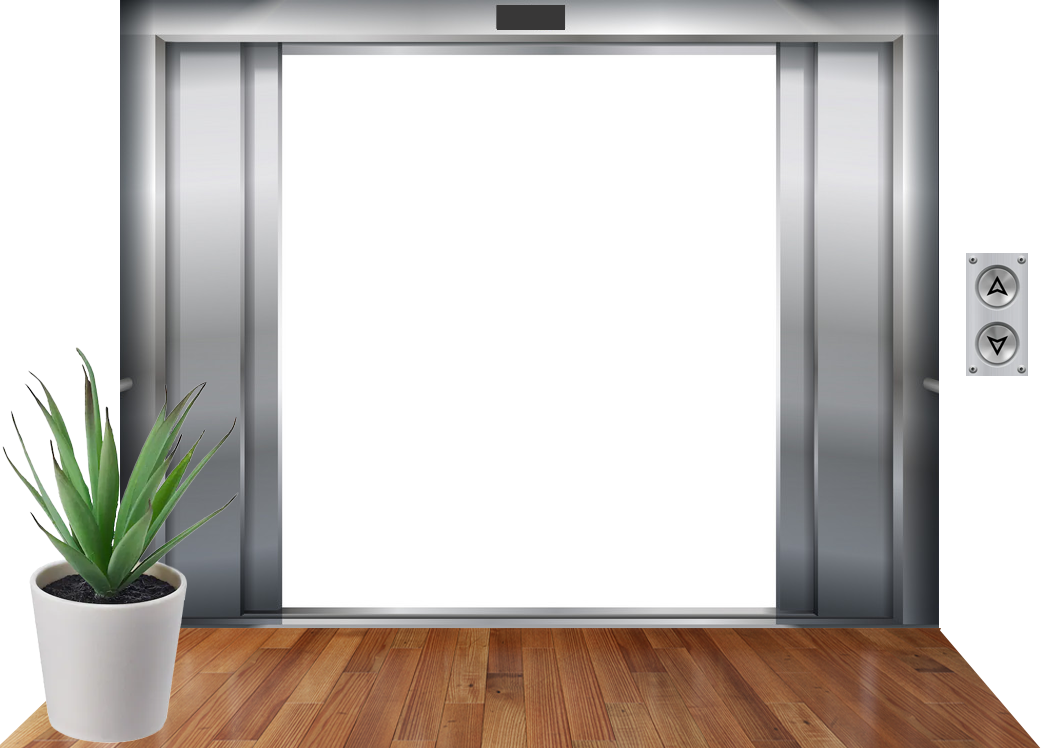
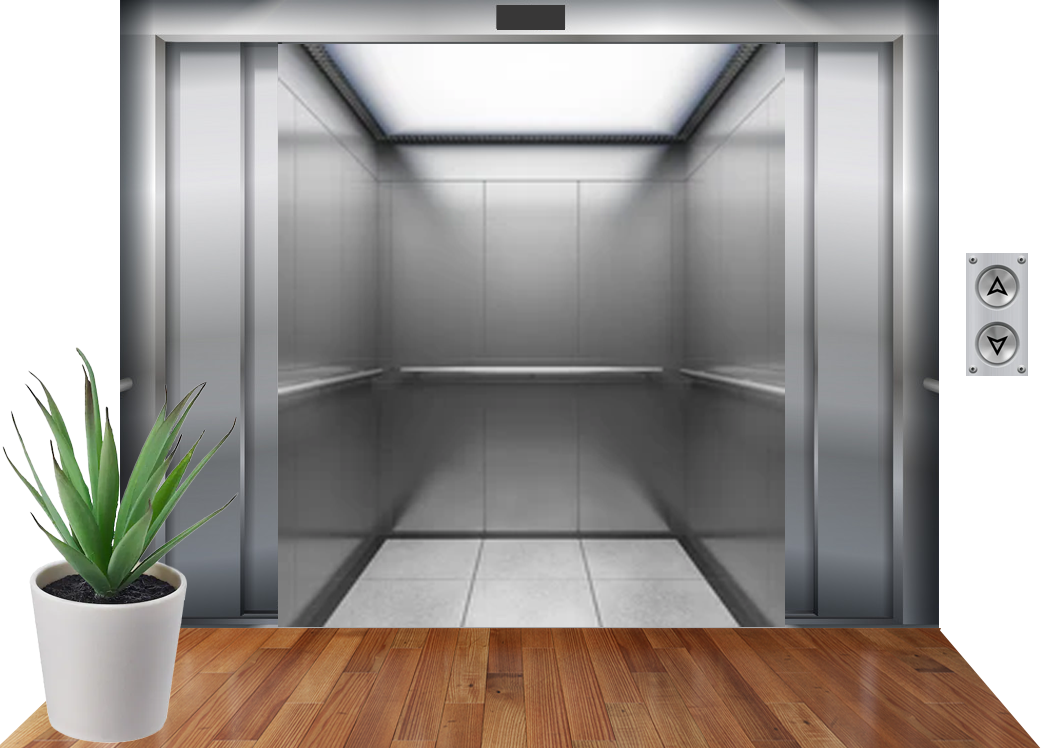
Completed Project

diff --git a/static/styles/styles.css b/static/styles/styles.css
@@ -21,10 +21,10 @@
 }
 
 .cam{
-  width:48%;
+  width:35%;
   position:absolute;
   margin-top:170px;
-  margin-left:205px;
+  margin-left:256.5px;
 }
 
 .camholder {
@@ -69,6 +69,7 @@
   position: relative;
   bottom:-175px;
   left: 65%;
+  animation: mymove 5s infinite;
 }
 
 #contact {

diff --git a/read_images.py b/read_images.py
@@ -1,9 +1,9 @@
-import cv2
-
-l = ['1.jpg', '2.jpg', '3.jpg', '4.jpg', '5.jpg']
-for i in l:
-    img = cv2.imread(f"finger_images/{i}")
-    print(img.shape)
-    img = cv2.resize(img,(200,200))
-    print(img.shape)
-    cv2.imwrite(f'resized/{i}', img)
+# import cv2
+#
+# l = ['1.jpg', '2.jpg', '3.jpg', '4.jpg', '5.jpg']
+# for i in l:
+#     img = cv2.imread(f"finger_images/{i}")
+#     print(img.shape)
+#     img = cv2.resize(img,(200,200))
+#     print(img.shape)
+#     cv2.imwrite(f'resized/{i}', img)
